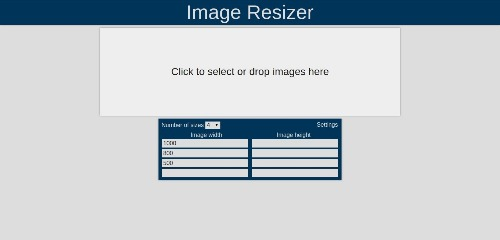
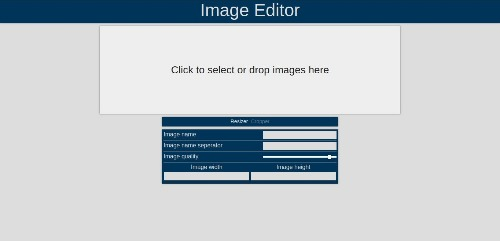
Changed project name

Changed region(s): [[0.21, 0.4667, 0.78, 0.7875], [0.0, 0.0, 1.0, 0.1167], [0.33, 0.2625, 0.66, 0.3208]]

diff --git a/src/css/main.css b/src/css/main.css
@@ -250,8 +250,8 @@ a {
   right: 0;
   padding-left: 0;
   margin: 0;
-  border-top: 1px solid #ccc;
   border-bottom: 1px solid #ccc;
+  box-shadow: 0 1px 2px rgba(0, 0, 0, 0.4);
   background-color: #ddd; }
 
 .nav-item {
@@ -283,7 +283,8 @@ a {
   .portfolio-item:nth-of-type(odd) .work-image {
     float: right;
     margin-left: 20px;
-    margin-right: 0; }
+    margin-right: 0;
+    box-shadow: 4px 4px 2px rgba(0, 0, 0, 0.4); }
   .portfolio-item:nth-of-type(odd) .skill {
     color: #f2f2f2; }
 
@@ -292,7 +293,7 @@ a {
   display: inline-block;
   width: 50%;
   margin-right: 20px;
-  box-shadow: 0 0 5px rgba(0, 0, 0, 0.4); }
+  box-shadow: -4px 4px 2px rgba(0, 0, 0, 0.4); }
 
 .description-container {
   display: inline-block;
@@ -389,7 +390,8 @@ a {
   .portfolio-item:nth-of-type(odd) .work-image {
     float: none;
     margin-left: 0;
-    margin-right: 0; }
+    margin-right: 0;
+    box-shadow: 0 4px 2px rgba(0, 0, 0, 0.4); }
   .work-title:hover {
     color: #333; }
   .work-title:active {
@@ -405,6 +407,8 @@ a {
   .work-image, .description-container {
     display: block;
     width: 100%; }
+  .work-image {
+    box-shadow: 0 4px 2px rgba(0, 0, 0, 0.4); }
   .description-container {
     margin-top: 20px; }
   .about {

diff --git a/src/scss/imports/media768px.scss b/src/scss/imports/media768px.scss
@@ -1,36 +1,37 @@
 @media screen and (max-width: 768px) {
 
     .header { background-image: url(../images/header.768.jpg); }
-    
+
     .name { letter-spacing: 6px; }
-    
+
     .first-name { font-size: 54px; }
 
     .last-name { font-size: 60px; }
 
     .line { width: 360px; }
-    
+
     .front { font-size: 16px; }
-    
+
     .link-content {
         &:hover { color: #888; }
 
         &:active { color: #333; }
     }
-    
+
     .portfolio-item:nth-of-type(odd) {
         .work-image {
             float: none;
             margin-left: 0;
             margin-right: 0;
+            box-shadow: 0 4px 2px rgba(0, 0, 0, .4);
         }
     }
     .work-title {
         &:hover { color: #333; }
-        
+
         &:active { color: $main-color; }
     }
-    
+
     .btn {
         &:hover { background-color: $main-color; }
 
@@ -45,9 +46,10 @@
         display: block;
         width: 100%;
     }
-    
+    .work-image { box-shadow: 0 4px 2px rgba(0, 0, 0, .4); }
+
     .description-container { margin-top: 20px; }
-    
+
     .about {
         padding: 20px 16%;
         background-image: url("../images/about.1024.jpg");

diff --git a/src/index.html b/src/index.html
@@ -34,7 +34,7 @@
     </header>
     <main id="work" class="work">
         <section class="portfolio-item">
-            <a href="http://andriuskv.github.io/image-resizer">
+            <a href="http://andriuskv.github.io/image-editor">
                 <img class="work-image" alt="screenshot of the project"
                 src="images/work/work3.jpg"
                 sizes="(max-width: 768px) 100vw, 50vw"
@@ -42,9 +42,9 @@
             </a>
             <div class="description-container">
                 <a href="http://andriuskv.github.io/image-resizer">
-                    <h2 class="work-title">Image resizer</h2>
+                    <h2 class="work-title">Image Editor</h2>
                 </a>
-                <p class="description">Image resizer is a simple tool to resize or crop images in bulk.</p>
+                <p class="description">Image Editor is a simple tool to resize or crop images in bulk.</p>
                 <span class="skill-title">Technologies</span>
                 <ul class="skills">
                     <li class="skill">HTML5 Canvas</li>

diff --git a/src/scss/imports/work.scss b/src/scss/imports/work.scss
@@ -6,7 +6,7 @@
     overflow: hidden;
     margin: 0 auto;
     padding: 40px;
-    
+
     &:nth-of-type(even) {
         border-top: 1px solid #ccc;
         border-bottom: 1px solid #ccc;
@@ -17,8 +17,9 @@
             float: right;
             margin-left: 20px;
             margin-right: 0;
+            box-shadow: 4px 4px 2px rgba(0, 0, 0, .4);
         }
-        
+
         .skill { color: #f2f2f2; }
     }
 }
@@ -27,7 +28,7 @@
     display: inline-block;
     width: 50%;
     margin-right: 20px;
-    box-shadow: 0 0 5px rgba(0,0,0,0.4);
+    box-shadow: -4px 4px 2px rgba(0, 0, 0, .4);
 }
 .description-container {
     display: inline-block;
@@ -52,7 +53,7 @@
 
 .skill-title {
     @extend %secion-title;
-    
+
     padding-bottom: 1px;
     border-bottom: 2px solid $main-color;
 }
@@ -65,7 +66,7 @@
 
 .skill {
     @extend %tag;
-    
+
     display: inline-block;
     margin-top: 6px;
 }

diff --git a/src/scss/imports/header.scss b/src/scss/imports/header.scss
@@ -56,8 +56,8 @@
     right: 0;
     padding-left: 0;
     margin: 0;
-    border-top: 1px solid #ccc;
     border-bottom: 1px solid #ccc;
+    box-shadow: 0 1px 2px rgba(0, 0, 0, .4);
     background-color: #ddd;
 }
 .nav-item {
@@ -71,6 +71,6 @@
     font-weight: bold;
     line-height: 3.142857142857143;
     color:#888;
-    
+
     &:hover { color: #333; }
 }
